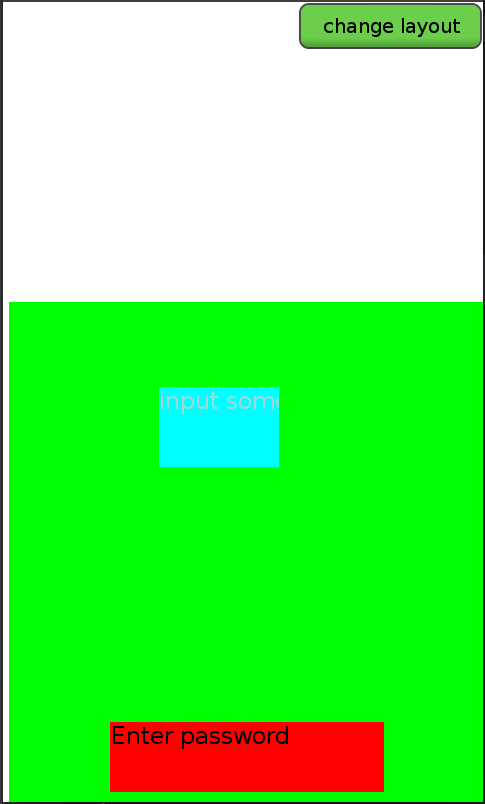
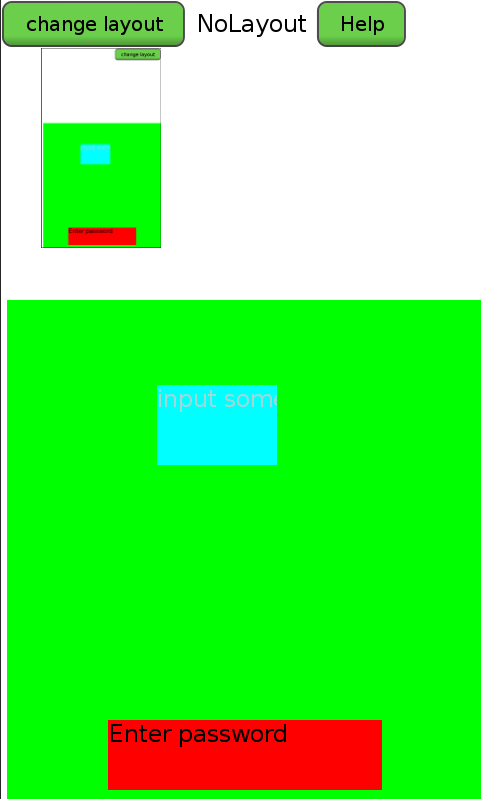
Added toolbar for layout demos

Changed region(s): [[0.0, 0.0, 1.0, 1.0], [0.0624, 0.1502, 0.343, 0.3304], [0.3119, 0.4806, 0.5925, 0.5106]]

diff --git a/layout-demo/LayoutDemo.cs b/layout-demo/LayoutDemo.cs
@@ -12,11 +12,24 @@ namespace LayoutDemo
     /// </summary>
     abstract class Example
     {
+	// Constructor
+        protected Example(string name)
+        {
+            exampleName = name;
+        }
         /// Should be overridden by deriving classes to create the required Layouting example
         public abstract void Create();
 
         /// Should be overridden by deriving classes to remove their layouting example from stage
         public abstract void Remove();
+
+	// Get the title of the derived example
+        public string GetLabel()
+        {
+            return exampleName;
+        }
+
+        protected string exampleName = "Title";
     };
 
     class LayoutingExample : NUIApplication
@@ -24,11 +37,32 @@ namespace LayoutDemo
         private List<Example> layoutingExamples = new List<Example>();
         private int layoutIndex = 0;
         private PushButton nextLayout;
+        private TextLabel exampleTitle;
+
+        static private View toolbar;
+
+        public static ref View GetToolbar()
+        {
+            return ref toolbar;
+        }
 
         protected override void OnCreate()
         {
             base.OnCreate();
+            InitializeToolbar();
             Initialize();
+        }
+
+	// Create a tool bar for title and buttons
+        private void InitializeToolbar()
+        {
+            Window window = Window.Instance;
+            toolbar = new View();
+            var layout = new LinearLayout();
+            toolbar.Layout = layout;
+            toolbar.SetProperty(LayoutItemWrapper.ChildProperty.WIDTH_SPECIFICATION, new PropertyValue(-1));
+            toolbar.SetProperty(LayoutItemWrapper.ChildProperty.HEIGHT_SPECIFICATION, new PropertyValue(-2));
+            window.Add(toolbar);
         }
 
         private void Initialize()
@@ -44,13 +78,12 @@ namespace LayoutDemo
             layoutingExamples.Add(new NoLayoutExample());
             layoutingExamples.Add(new GridExample());
 
-            layoutingExamples[0].Create();
             layoutIndex = 0;
+            layoutingExamples[layoutIndex].Create();
+
+            string currentExampleLabel = layoutingExamples[layoutIndex].GetLabel();
 
             nextLayout = new PushButton();
-            nextLayout.ParentOrigin = ParentOrigin.TopRight;
-            nextLayout.PivotPoint = PivotPoint.TopRight;
-            nextLayout.PositionUsesPivotPoint = true;
             nextLayout.LabelText = "change layout";
             nextLayout.Clicked += (sender, e) =>
             {
@@ -59,15 +92,17 @@ namespace LayoutDemo
                     layoutingExamples[layoutIndex].Remove();
                     layoutIndex = (layoutIndex + 1) % layoutingExamples.Count;
                     layoutingExamples[layoutIndex].Create();
+                    currentExampleLabel = layoutingExamples[layoutIndex].GetLabel();
+                    exampleTitle.Text = currentExampleLabel;
                 }
-
-                // Reattach 'next layout' button so it stays on top and updated.
-                window.Remove(nextLayout);
-                window.Add(nextLayout);
                 return true;
             };
 
-            window.Add(nextLayout);
+            exampleTitle = new TextLabel();
+            exampleTitle.Text = currentExampleLabel;
+            exampleTitle.Margin = new Extents( 10, 10, 0, 0);
+            toolbar.Add(nextLayout);
+            toolbar.Add(exampleTitle);
         }
 
         /// <summary>

diff --git a/layout-demo/NoLayoutExample.cs b/layout-demo/NoLayoutExample.cs
@@ -8,6 +8,9 @@ namespace LayoutDemo
 {
     class NoLayoutExample : Example
     {
+        public NoLayoutExample() : base( "NoLayout" )
+        {}
+
         static class TestImages
         {
             private const string resources = "./res";
@@ -66,7 +69,7 @@ namespace LayoutDemo
             view.Add(field);
 
             CreateHelpButton();
-            window.Add( helpButton );
+            LayoutingExample.GetToolbar().Add( helpButton );
         }
 
         public override void Remove()
@@ -78,18 +81,17 @@ namespace LayoutDemo
                 helpImageView = null;
             }
             helpShowing = false;
-            window.Remove(helpButton);
+            LayoutingExample.GetToolbar().Remove(helpButton);
             window.Remove(view);
             helpButton = null;
             view = null;
         }
 
+	// Shows a thumbnail of the expected output
         private void CreateHelpButton()
         {
             helpButton = new PushButton();
-            helpButton.LabelText = "Example Help";
-            helpButton.PivotPoint = PivotPoint.TopLeft;
-            helpButton.PositionUsesPivotPoint = true;
+            helpButton.LabelText = "Help";
             helpButton.Clicked += (sender, e) =>
             {
                 if ( ! helpShowing )

diff --git a/layout-demo/FlexExample.cs b/layout-demo/FlexExample.cs
@@ -8,6 +8,9 @@ namespace LayoutDemo
 {
     class FlexExample : Example
     {
+        public FlexExample() : base( "FlexLayout" )
+        {}
+
         static class TestImages
         {
             private const string resources = "./res";
@@ -36,7 +39,6 @@ namespace LayoutDemo
             view.PositionUsesPivotPoint = true;
             view.SetProperty(LayoutItemWrapper.ChildProperty.WIDTH_SPECIFICATION, new PropertyValue(480));
             view.SetProperty(LayoutItemWrapper.ChildProperty.HEIGHT_SPECIFICATION, new PropertyValue(800));
-            view.BackgroundColor = Color.Blue;
 
             var layout = new FlexLayout();
             layout.WrapType = FlexLayout.FlexWrapType.NoWrap;

diff --git a/layout-demo/PaddingExample.cs b/layout-demo/PaddingExample.cs
@@ -8,6 +8,9 @@ namespace LayoutDemo
 {
     class PaddingExample : Example
     {
+        public PaddingExample() : base( "PaddingExample" )
+        {}
+
         static class TestImages
         {
             private const string resources = "./res";
@@ -32,7 +35,6 @@ namespace LayoutDemo
             view.PositionUsesPivotPoint = true;
             view.SetProperty(LayoutItemWrapper.ChildProperty.WIDTH_SPECIFICATION, new PropertyValue(480));
             view.SetProperty(LayoutItemWrapper.ChildProperty.HEIGHT_SPECIFICATION, new PropertyValue(800));
-            view.BackgroundColor = Color.Blue;
 
             var layout = new LinearLayout();
             view.Layout = layout;

diff --git a/layout-demo/LinearExample.cs b/layout-demo/LinearExample.cs
@@ -8,6 +8,9 @@ namespace LayoutDemo
 {
     class LinearExample : Example
     {
+        public LinearExample() : base( "LinearLayout" )
+        {}
+
         static class TestImages
         {
             private const string resources = "./res";
@@ -34,7 +37,6 @@ namespace LayoutDemo
             view.PositionUsesPivotPoint = true;
             view.SetProperty(LayoutItemWrapper.ChildProperty.WIDTH_SPECIFICATION, new PropertyValue(480));
             view.SetProperty(LayoutItemWrapper.ChildProperty.HEIGHT_SPECIFICATION, new PropertyValue(800));
-            view.BackgroundColor = Color.Blue;
 
             var layout = new LinearLayout();
             view.Layout = layout;

diff --git a/layout-demo/AbsoluteExample.cs b/layout-demo/AbsoluteExample.cs
@@ -8,6 +8,9 @@ namespace LayoutDemo
 {
     class AbsoluteExample : Example
     {
+        public AbsoluteExample() : base( "AbsoluteExample" )
+        {}
+
         static class TestImages
         {
             private const string resources = "./res";
@@ -27,7 +30,7 @@ namespace LayoutDemo
         {
             // Absolute Layout is created automatically in Window.
             View view = new View();
-            view.Name = "AbsoluteExample";
+            view.Name = "AbsoluteLayout";
             view.ParentOrigin = ParentOrigin.Center;
             view.PivotPoint = PivotPoint.Center;
             view.PositionUsesPivotPoint = true;

diff --git a/layout-demo/GridExample.cs b/layout-demo/GridExample.cs
@@ -9,6 +9,9 @@ namespace LayoutDemo
     // Shows different features of the GridLayout and generic layout system
     class GridExample : Example
     {
+        public GridExample() : base( "GridLayout" )
+        {}
+
         static class TestImages
         {
             private const string resources = "./res";
@@ -70,8 +73,6 @@ namespace LayoutDemo
             }
 
             Window window = Window.Instance;
-
-            this.view = view;
 
             nextFeatureButton = new PushButton();
             nextFeatureButton.ParentOrigin = ParentOrigin.BottomCenter;
